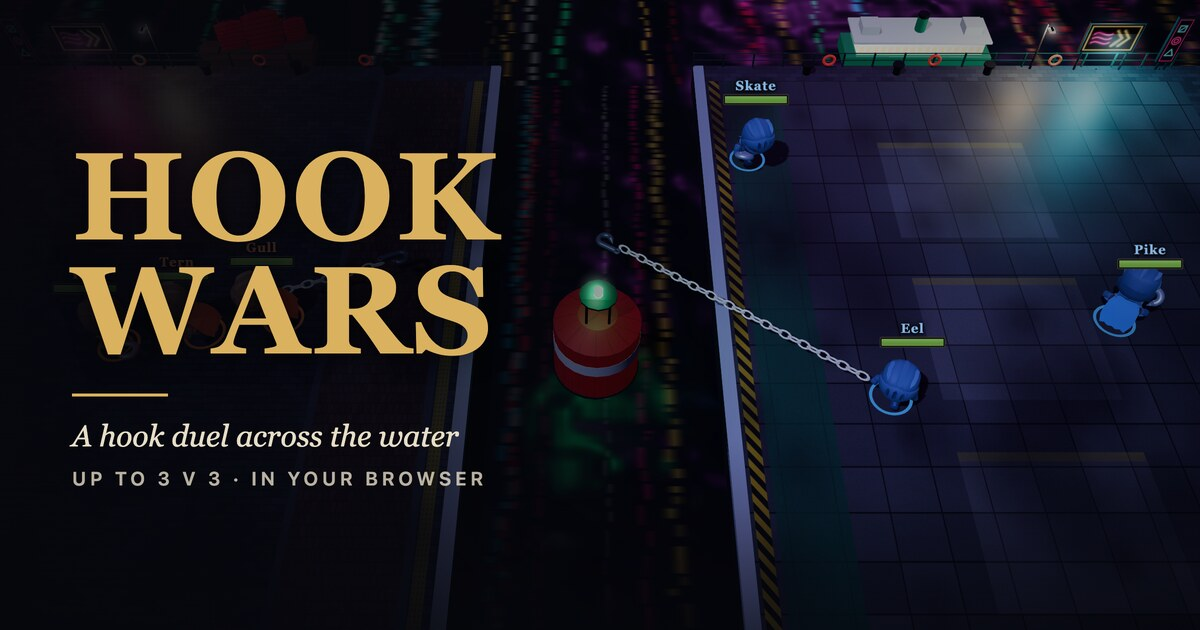
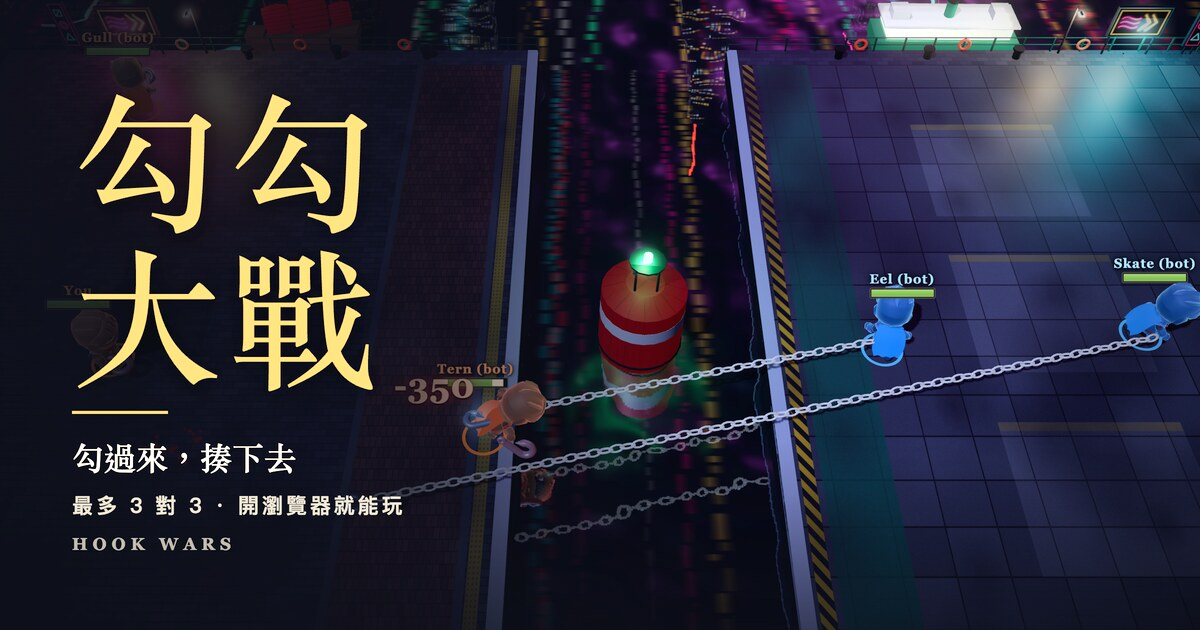
feat: version 0.1.0, shown on the menu and in the health check, with a Chinese share image and link preview
One GAME_VERSION constant feeds the menu footer and /healthz, and a test
keeps it equal to every package manifest. The share image is retaken at
high quality with the title 勾勾大戰, and the link preview's site name,
title and description are in Traditional Chinese.

diff --git a/apps/client/index.html b/apps/client/index.html
@@ -6,8 +6,9 @@
     <title>Hook Wars</title>
     <meta name="description" content="A hook duel across the water, in your browser. Fight bots, or bring friends online for up to 3v3." />
     <meta property="og:type" content="website" />
-    <meta property="og:title" content="Hook Wars" />
-    <meta property="og:description" content="A hook duel across the water, in your browser. Fight bots, or bring friends online for up to 3v3." />
+    <meta property="og:site_name" content="勾勾大戰" />
+    <meta property="og:title" content="勾勾大戰 Hook Wars" />
+    <meta property="og:description" content="隔著水面丟鉤子、把對手拖過來打。可以單人打電腦，也可以揪朋友連線，最多 3 對 3。" />
     <meta property="og:image" content="https://hook-wars.fly.dev/og.jpg" />
     <meta property="og:url" content="https://hook-wars.fly.dev/" />
     <meta property="og:image:width" content="1200" />

diff --git a/apps/server/src/http.ts b/apps/server/src/http.ts
@@ -1,6 +1,7 @@
 import { existsSync, readFileSync } from 'node:fs';
 import { join, resolve } from 'node:path';
 import { serveStatic } from '@hono/node-server/serve-static';
+import { GAME_VERSION } from '@hookwars/protocol';
 import { Hono } from 'hono';
 
 export const HEALTH_PATH = '/healthz';
@@ -27,7 +28,7 @@ export type Health = { readonly rooms: number; readonly matches: number; readonl
 /** The health check the platform polls, and the built client when there is one to serve. */
 export function createHttpApp(staticDir: string | null, health: () => Health): Hono {
   const app = new Hono();
-  app.get(HEALTH_PATH, (c) => c.json({ ok: true, ...health() }));
+  app.get(HEALTH_PATH, (c) => c.json({ ok: true, version: GAME_VERSION, ...health() }));
   if (staticDir === null) return app;
 
   const root = resolve(staticDir);

diff --git a/apps/server/src/__tests__/version.test.ts b/apps/server/src/__tests__/version.test.ts
@@ -1,0 +1,15 @@
+import { readFileSync } from 'node:fs';
+import { describe, expect, it } from 'vitest';
+import { GAME_VERSION } from '@hookwars/protocol';
+
+const ROOT = '../../../../';
+const MANIFESTS = ['package.json', 'packages/sim/package.json', 'packages/room/package.json', 'packages/protocol/package.json', 'apps/client/package.json', 'apps/server/package.json'].map((path) => ROOT + path);
+
+describe('GAME_VERSION', () => {
+  it('matches every package manifest, so the menu, the health check and the tag agree', () => {
+    for (const path of MANIFESTS) {
+      const manifest = JSON.parse(readFileSync(new URL(path, import.meta.url), 'utf8')) as { version?: string };
+      expect({ path, version: manifest.version }).toEqual({ path, version: GAME_VERSION });
+    }
+  });
+});

diff --git a/apps/client/src/menu/MainMenu.tsx b/apps/client/src/menu/MainMenu.tsx
@@ -1,5 +1,6 @@
 import { useEffect, useId, useState } from 'react';
 import type { Invite } from '../app/onlineMode';
+import { GAME_VERSION } from '@hookwars/protocol';
 import { CreditsLink } from '../hud/labels';
 import type { QualitySetting } from '../render/quality';
 import { Notice } from '../screens/Notice';
@@ -88,6 +89,7 @@ export function MainMenu({ name, notice, invite, connecting, quality, onPlay, on
         <div className="menu-footer">
           <Settings quality={quality} buttonClass="menu-quiet" />
           <CreditsLink className="menu-quiet" />
+          <span className="menu-version">v{GAME_VERSION}</span>
         </div>
       </div>
     </main>

diff --git a/packages/protocol/src/limits.ts b/packages/protocol/src/limits.ts
@@ -1,6 +1,9 @@
 /** Checked at connect: a client and a server that disagree do not talk. Raise it with any change to a message. */
 export const PROTOCOL_VERSION = 4;
 
+/** The release a player or the health check reports. Kept equal to every package.json by a test. */
+export const GAME_VERSION = '0.1.0';
+
 /** No client message comes near this; the server's socket refuses anything longer before it is read. */
 export const MAX_CLIENT_MESSAGE_BYTES = 2048;
 /** A 3v3 snapshot is about 4 kB; a client that is sent more than this is not talking to this server. */

diff --git a/apps/client/src/menu/menu.css b/apps/client/src/menu/menu.css
@@ -217,3 +217,9 @@
     flex-direction: column;
   }
 }
+
+.menu-version {
+  font: 500 11px/1 var(--font-mono, ui-monospace, monospace);
+  letter-spacing: 0.04em;
+  opacity: 0.55;
+}
